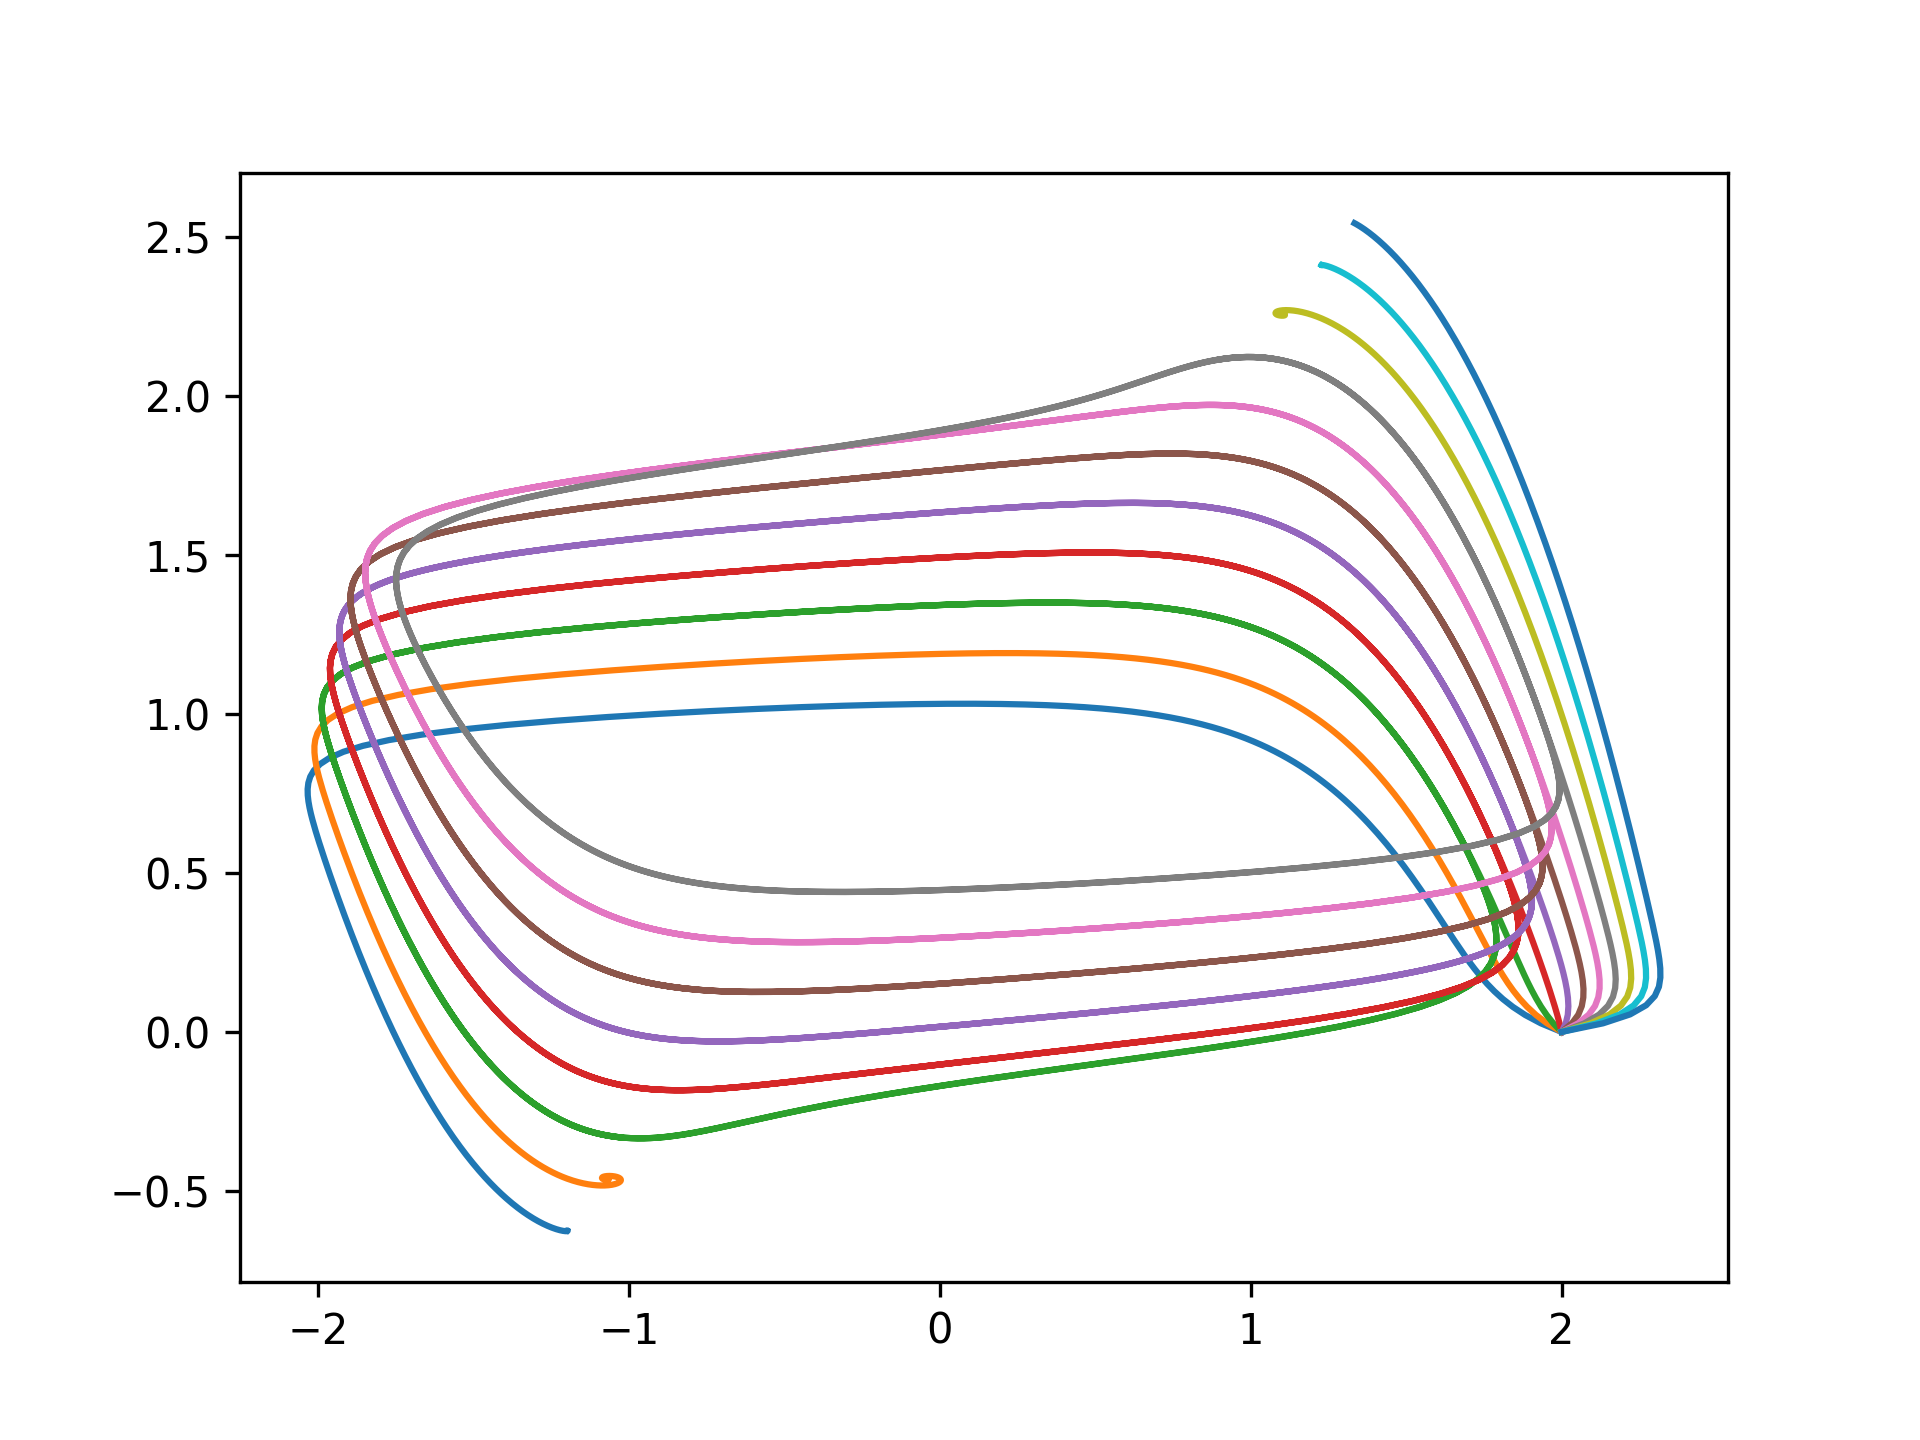
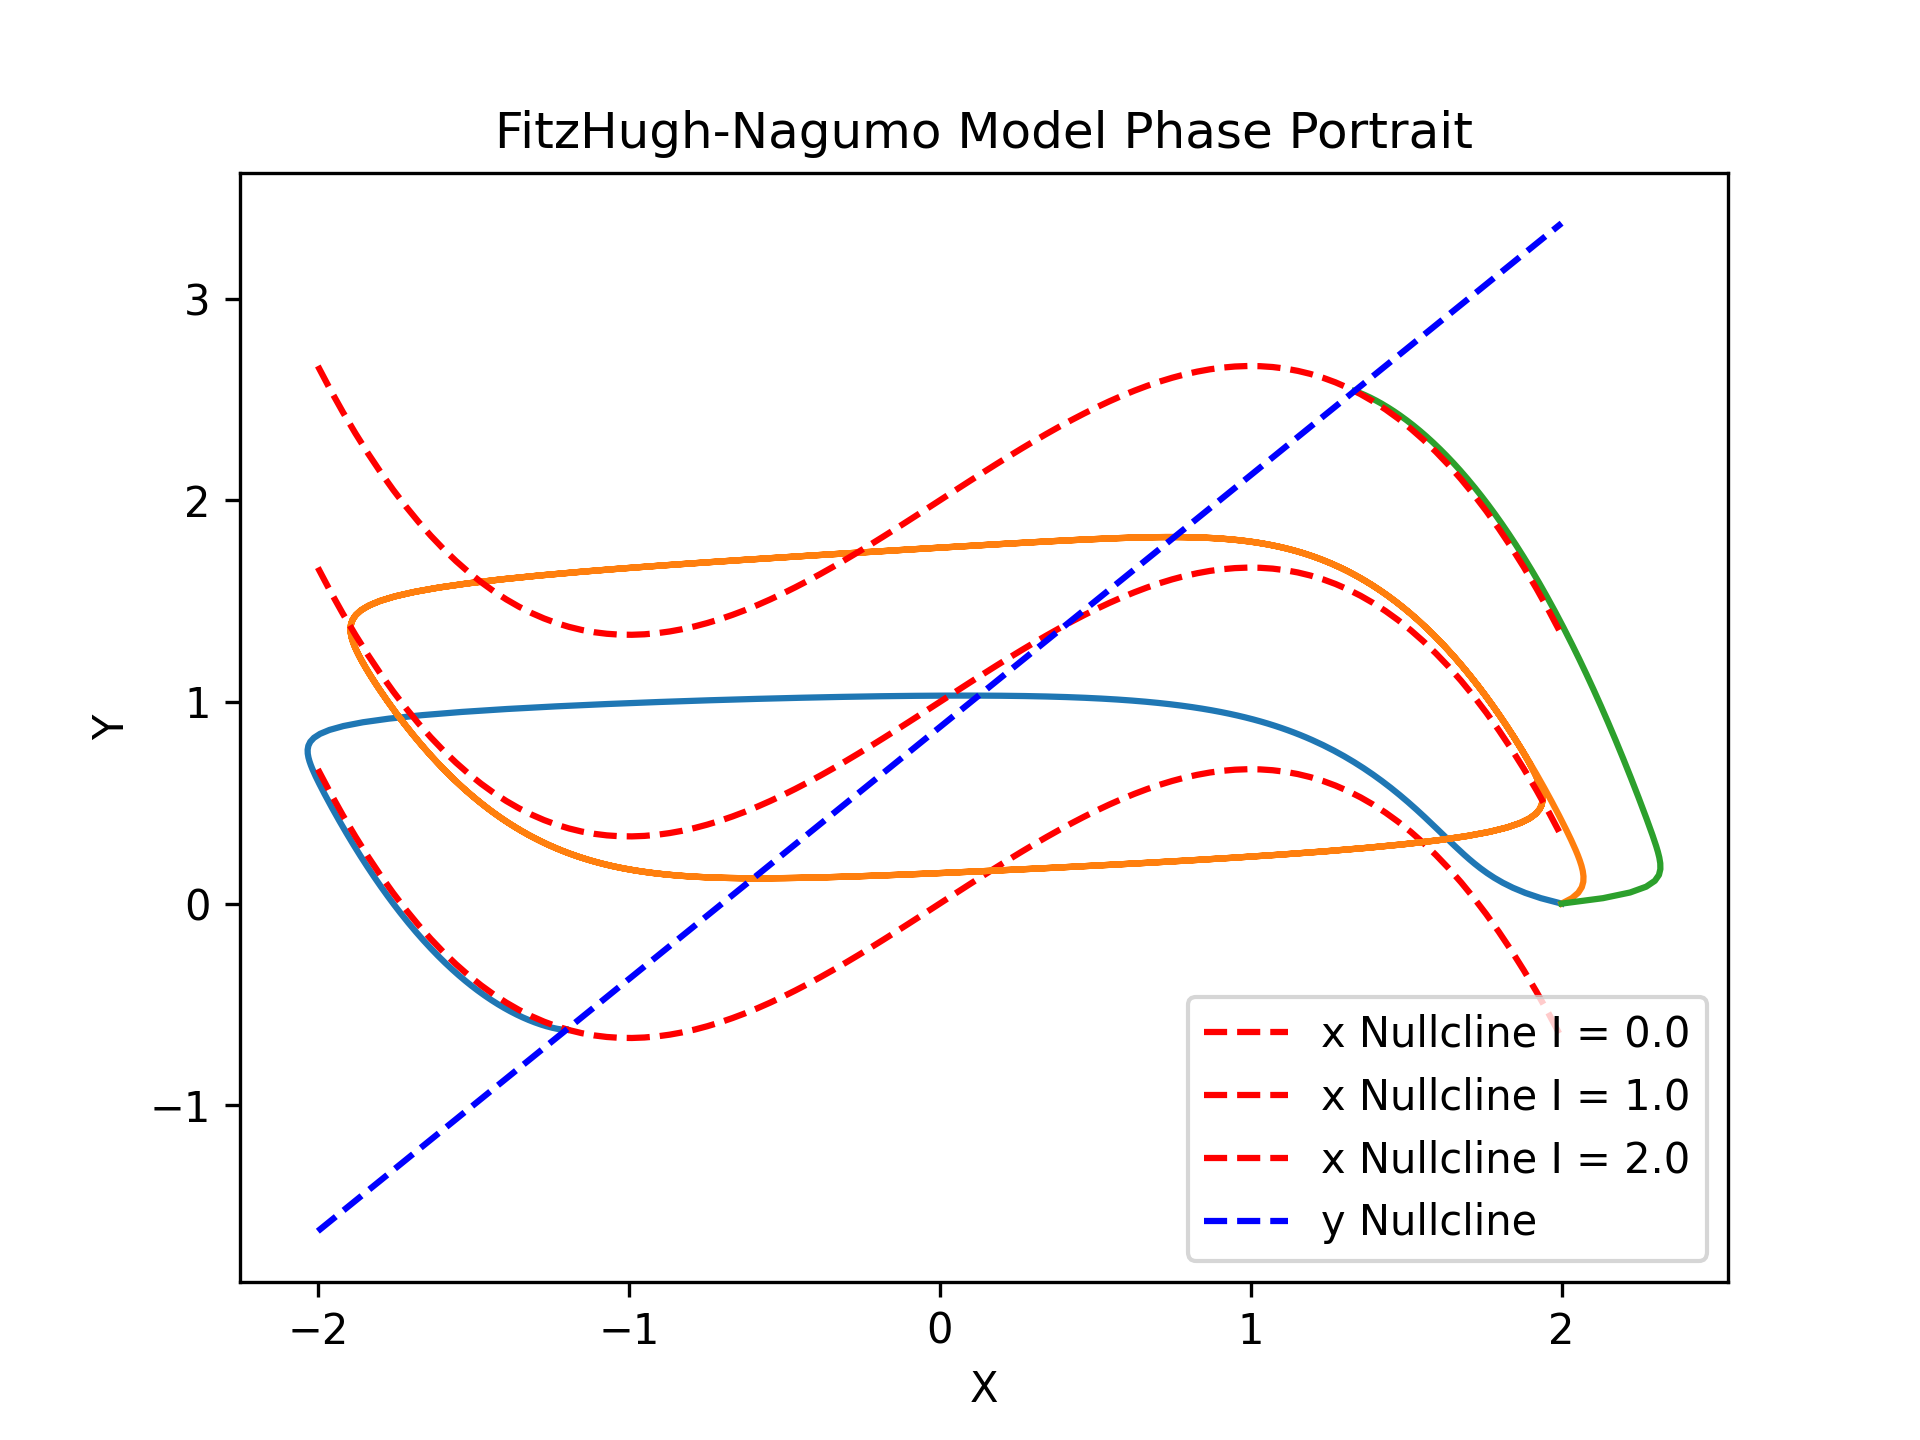
Add basic nullclines

diff --git a/fitzHughNagumo.py b/fitzHughNagumo.py
@@ -1,6 +1,7 @@
 import numpy as np
 import matplotlib.pyplot as plt
 import os
+
 # Import the helpers module
 from helpers import *
 
@@ -34,7 +35,7 @@ def fitzHughNagumoModel(
 # This code here checks if the file is being run directly and not imported as a module
 if __name__ == "__main__":
     # Define the parameters for the FitzHugh-Nagumo model
-    IValues = np.linspace(0, 2, 11)
+    IValues = np.linspace(0, 2, 3)
     mu = 10
     a = 0.8
     b = 0.7
@@ -42,6 +43,7 @@ if __name__ == "__main__":
     y0 = 0
     dt = 0.1
     endTime = 100
+    xAxisValues = np.linspace(-2, 2, 100)
 
     fig, axs = plt.subplots()
     # Run the FitzHugh-Nagumo model for each value of I
@@ -56,10 +58,20 @@ if __name__ == "__main__":
         xValues = positionValues[:, 0]
         yValues = positionValues[:, 1]
         axs.plot(xValues, yValues)
+        xNullcline = xNullclineWithParams(I)
+        xNullclineValues = xNullcline(xAxisValues)
+        axs.plot(xAxisValues, xNullclineValues, linestyle = "--", color = "red", label = f"x Nullcline I = {I}")
+
+    yNullcline = yNullclineWithParams(a, b)
+    yNullclineValues = yNullcline(xAxisValues)
+    axs.plot(xAxisValues, yNullclineValues, linestyle = "--", color = "blue", label = f"y Nullcline")
+    axs.legend()
+    axs.set_title("FitzHugh-Nagumo Model Phase Portrait")
+    axs.set_xlabel("X")
+    axs.set_ylabel("Y")
     # Save the figure
     # Check if the directory exists, if not create it
     if not os.path.exists("FitzHughNagumo"):
         os.makedirs("FitzHughNagumo")
 
     fig.savefig("FitzHughNagumo/fitzHughNagumo.png", dpi=300)
-

diff --git a/helpers.py b/helpers.py
@@ -56,6 +56,22 @@ def _dx_dt(x: float, y: float, I: float) -> float:
 def _dy_dt(x: float, y: float, mu: float, a: float, b: float) -> float:
     return 1 / mu * (x - a * y + b)
 
+def xNullclineWithParams(I: float) -> Callable[[float], float]:
+    """
+    Returns a function that calculates the x nullcline
+    """
+    def xNullcline(x: float) -> float:
+        return x - 1 / 3 * x**3 + I
+    return xNullcline
+
+def yNullclineWithParams(a: float, b: float) -> Callable[[float], float]:
+    """
+    Returns a function that calculates the y nullcline
+    """
+    def yNullcline(x: float) -> float:
+        return (x + b) / a
+    return yNullcline
+
 class ModelParams:
     def __init__(self, I: float, mu: float, a: float, b: float):
         self.I = I
